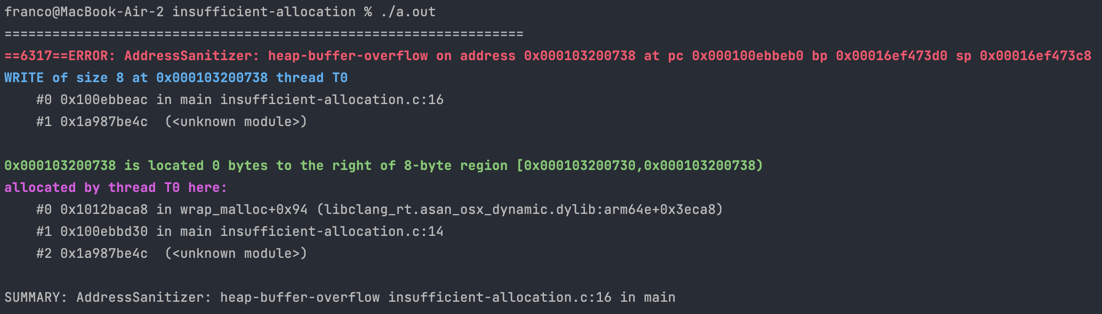
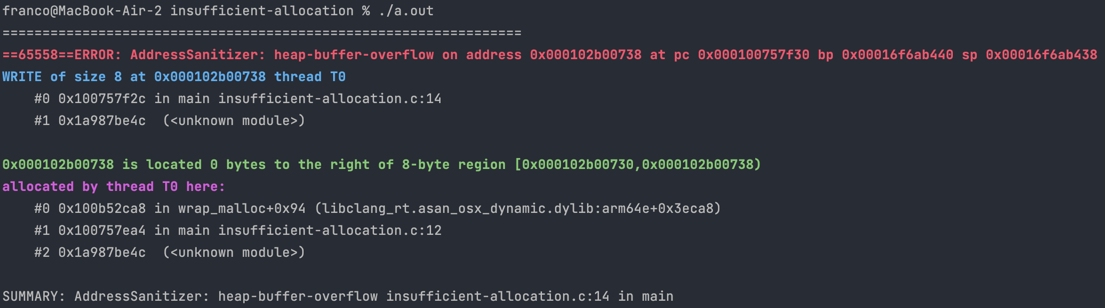
Remove typedef

diff --git a/glossary/heap-buffer-overflow/insufficient-allocation/insufficient-allocation.c b/glossary/heap-buffer-overflow/insufficient-allocation/insufficient-allocation.c
@@ -1,17 +1,15 @@
 // Allocate insufficient memory for a struct
 // Created for COMP2521 sanitiser guide
 
-#include <stdio.h>
 #include <stdlib.h>
 
-typedef struct node *Node;
 struct node {
     int val;
-    Node next;
+    struct node *next;
 };
 
 int main(void) {
-    Node n = malloc(sizeof(Node));
+    struct node *n = malloc(sizeof(n));
     n->val = 0;
     n->next = NULL;
 

diff --git a/glossary/heap-buffer-overflow/insufficient-allocation/README.md b/glossary/heap-buffer-overflow/insufficient-allocation/README.md
@@ -10,20 +10,18 @@ Here is the code for this example ([source](insufficient-allocation.c)):
 // Allocate insufficient memory for a struct
 // Created for COMP2521 sanitiser guide
 
-#include <stdio.h>
 #include <stdlib.h>
 
-typedef struct node *Node;
 struct node {
     int val;
-    Node next;
+    struct node *next;
 };
 
 int main(void) {
-    Node n = malloc(sizeof(Node));
+    struct node *n = malloc(sizeof(n));
     n->val = 0;
     n->next = NULL;
-
+    
     free(n);
     return 0;
 }
@@ -36,16 +34,16 @@ Here is the error message:
 
 ![error message](error.png)
 
-- The first thing we notice is that the error occurs on line 16, which is the line `n->next = NULL;`.
-- The memory being incorrectly accessed was allocated on line 14, which is `Node n = malloc(sizeof(Node));`.
-- The memory allocated for `n` was only 8 bytes.
+- The first thing we notice is that the error occurs on line 14, which is the line `n->next = NULL;`.
+- The memory being incorrectly accessed was allocated on line 12, which is `struct node *n = malloc(sizeof(n));`.
+- The memory allocated to `n` was only 8 bytes.
 
 ## The Problem
 
-Here we've defined a linked list node struct `struct node` and a pointer to it called `Node`. In the main function, we've allocated memory for a new node, however we only allocated `sizeof(Node)` bytes, which gives us enough memory for the pointer, but not necessarily enough for the struct.
+Here we've defined a linked list node struct `struct node`. In the main function, we've allocated memory for a new node, however we only allocated `sizeof(n)` bytes. But `n` is of type `struct node *`, so this is equivalent to `sizeof(struct node *)`. All pointers are 8 bytes in size.
 
 In this case our struct contains an integer (4 bytes) and a pointer to the next node (8 bytes), so we would need 12 bytes of memory for this struct. But since we only allocate enough space for a pointer (8 bytes), we haven't allocated enough memory.
 
 ## The Fix
 
-Rather than `sizeof(Node)`, we should use `sizeof(struct node)` or `sizeof(*n)` (i.e. the size of the memory that `n` points to).
+Rather than `sizeof(n)`, we should use `sizeof(*n)` (i.e. the size of the memory that `n` points to) or equivalently `sizeof(struct node)`.
